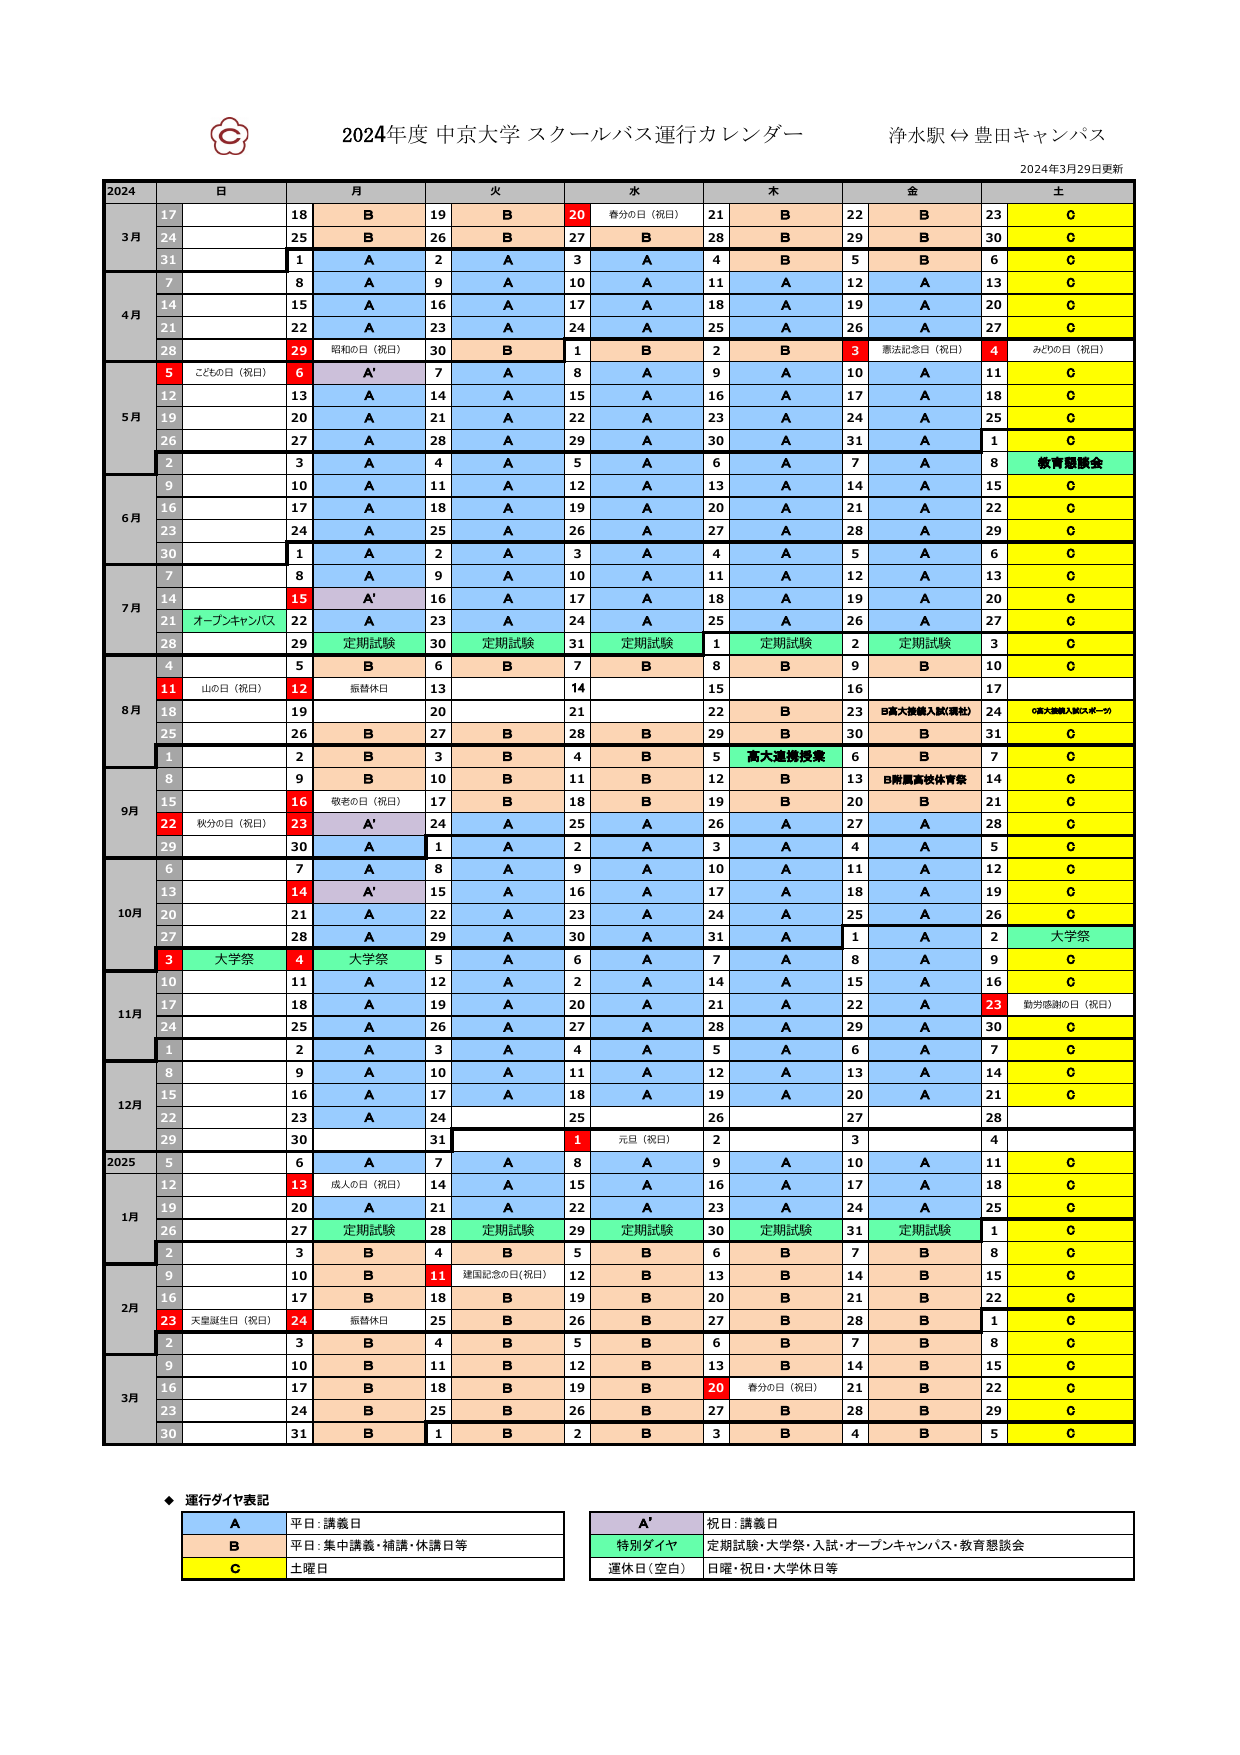
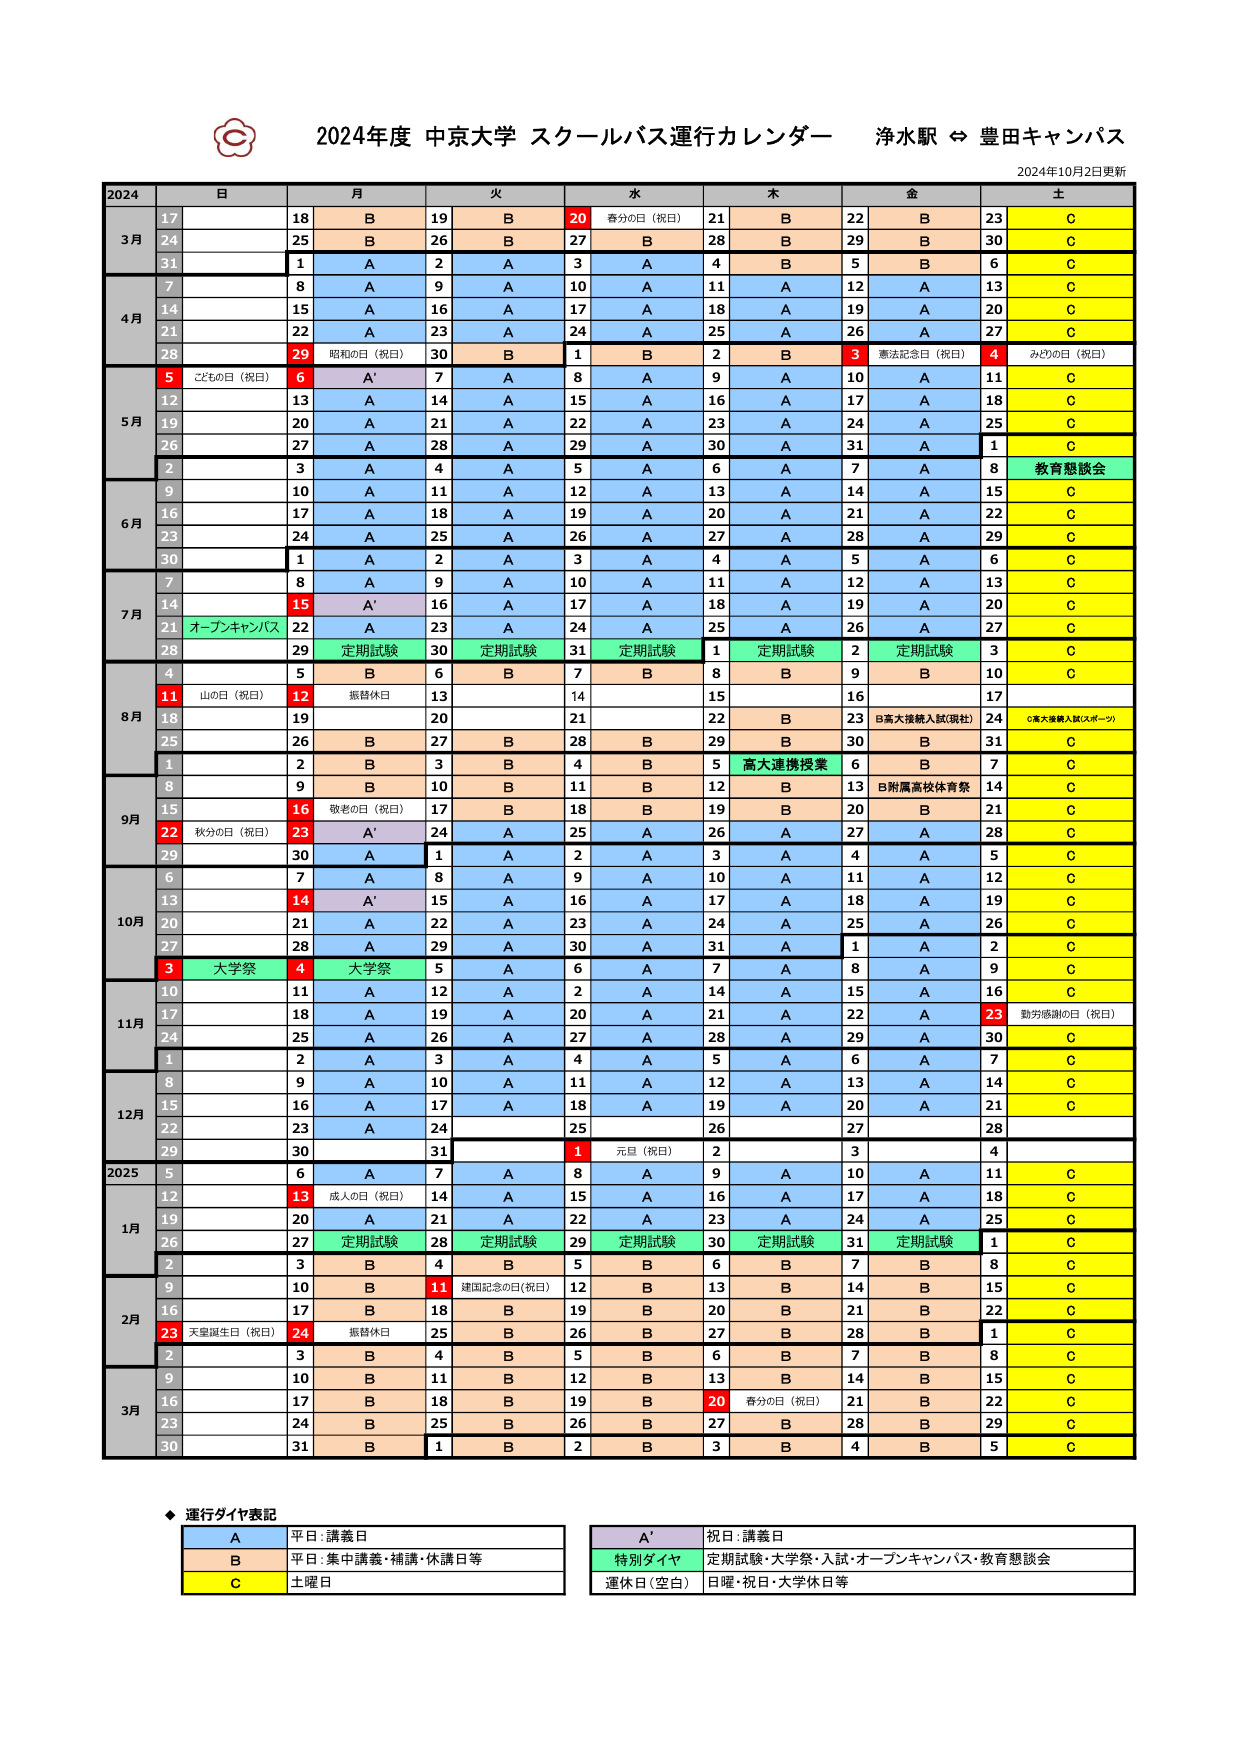
fix: カレンダーの画像を差し替え
https://www.chukyo-u.ac.jp/support/pdf/studentlife/buscallender2024-2.pdf

2024/10/2 更新のものに更新。

Changed region(s): [[0.0613, 0.0615, 0.9194, 0.9231]]

diff --git a/src/types/Const.ts b/src/types/Const.ts
@@ -7,7 +7,7 @@ export const URLs = {
 // 1241 × 1755
 export const PNGSize = {
   calendar: {
-    width: 1240,
+    width: 1241,
     height: 1755
   },
   timeTable: {
